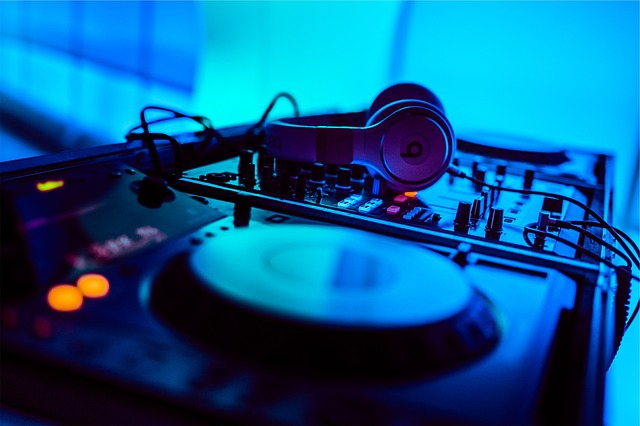
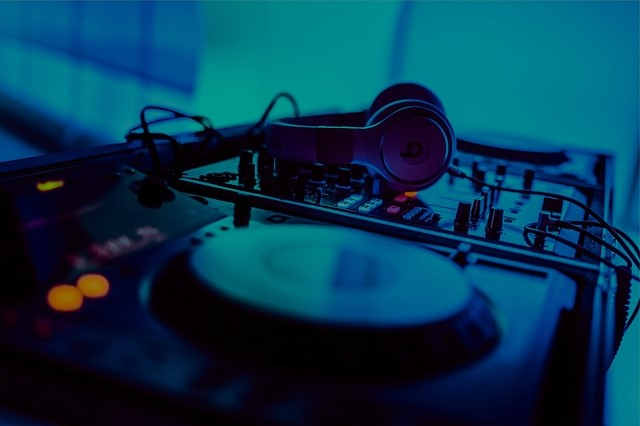
initial data bindings

diff --git a/app/states/club-profile/view.club-profile.html b/app/states/club-profile/view.club-profile.html
@@ -1,26 +1,33 @@
 <section id="plamigo-club-profile-ui-one">
     <div layout="column" flex>
         <!-- top half of ui -->
-        <div layout="column" layout-align="center center" layout-margin layout-padding>
+        <div layout="column" layout-align="center center" layout-padding class="plamigo-font-light"
+             ng-style="cClubProfile.bgImage">
             <h1>Club someClub | rating: 4.6</h1>
-            <p>Lorem ipsum dolor sit amet, consectetur adipisicing elit. At atque consequatur dicta dolore, dolorem earum
-                eius enim est et eum fugiat in ipsum obcaecati officia praesentium quasi saepe soluta ut!</p>
+            <p>
+                At Club someClub we play the best Electronic Dance Music. From techno and trance
+                to Hardstyle and Happy Hardcore. Plur Life <3
+            </p>
         </div>
 
         <!-- bottom half of ui with 2 columns -->
         <div layout="row" layout-align="center center" layout-margin="" layout-padding="">
-            <div flex="">
+            <div flex>
                 <h2>Top Drinks:</h2>
                 <p>BlueBerry Blast</p>
                 <p>Vicious Vanilla</p>
                 <p>Russian Roulette</p>
             </div>
-            <div flex="">
+            <div flex>
                 <p>123 Main St, San Francisco, CA 54321</p>
                 <p>www.clubsite.com</p>
                 <p>415-111-2222</p>
                 <p>9pm-2am Fri-Sun</p>
             </div>
+        </div>
+
+        <div layout="row" layout-align="center center" layout-padding layout-margin>
+            <md-button class="md-raised md-primary plamigo-round-btn">Special Events</md-button>
         </div>
     </div>
 </section>

diff --git a/app/styles/plamigo.css b/app/styles/plamigo.css
@@ -3,6 +3,16 @@
     height: 330px;
 }
 
+.plamigo-font-light {
+    color: #f1f1f1 !important;
+}
+
+.plamigo-round-btn {
+    border-radius: 30px;
+    padding-left: 12px;
+    padding-right: 12px;
+}
+
 
 /**
 end of file
